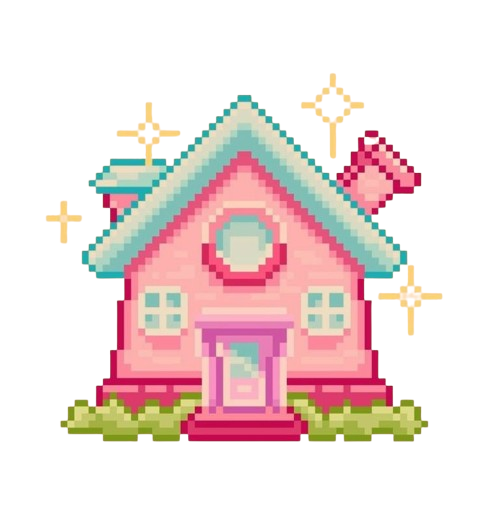
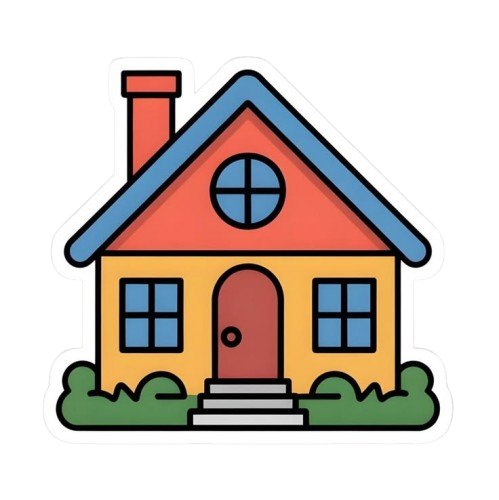
I like this aesthetic much better hehe

diff --git a/src/features/notes/notes.css b/src/features/notes/notes.css
@@ -1767,8 +1767,8 @@
 .sidebar__nav-actions {
   display: flex;
   align-items: center;
-  justify-content: space-between;
-  gap: 12px;
+  justify-content: center;
+  gap: 20px;
   margin-bottom: 12px;
   width: 100%;
 }
